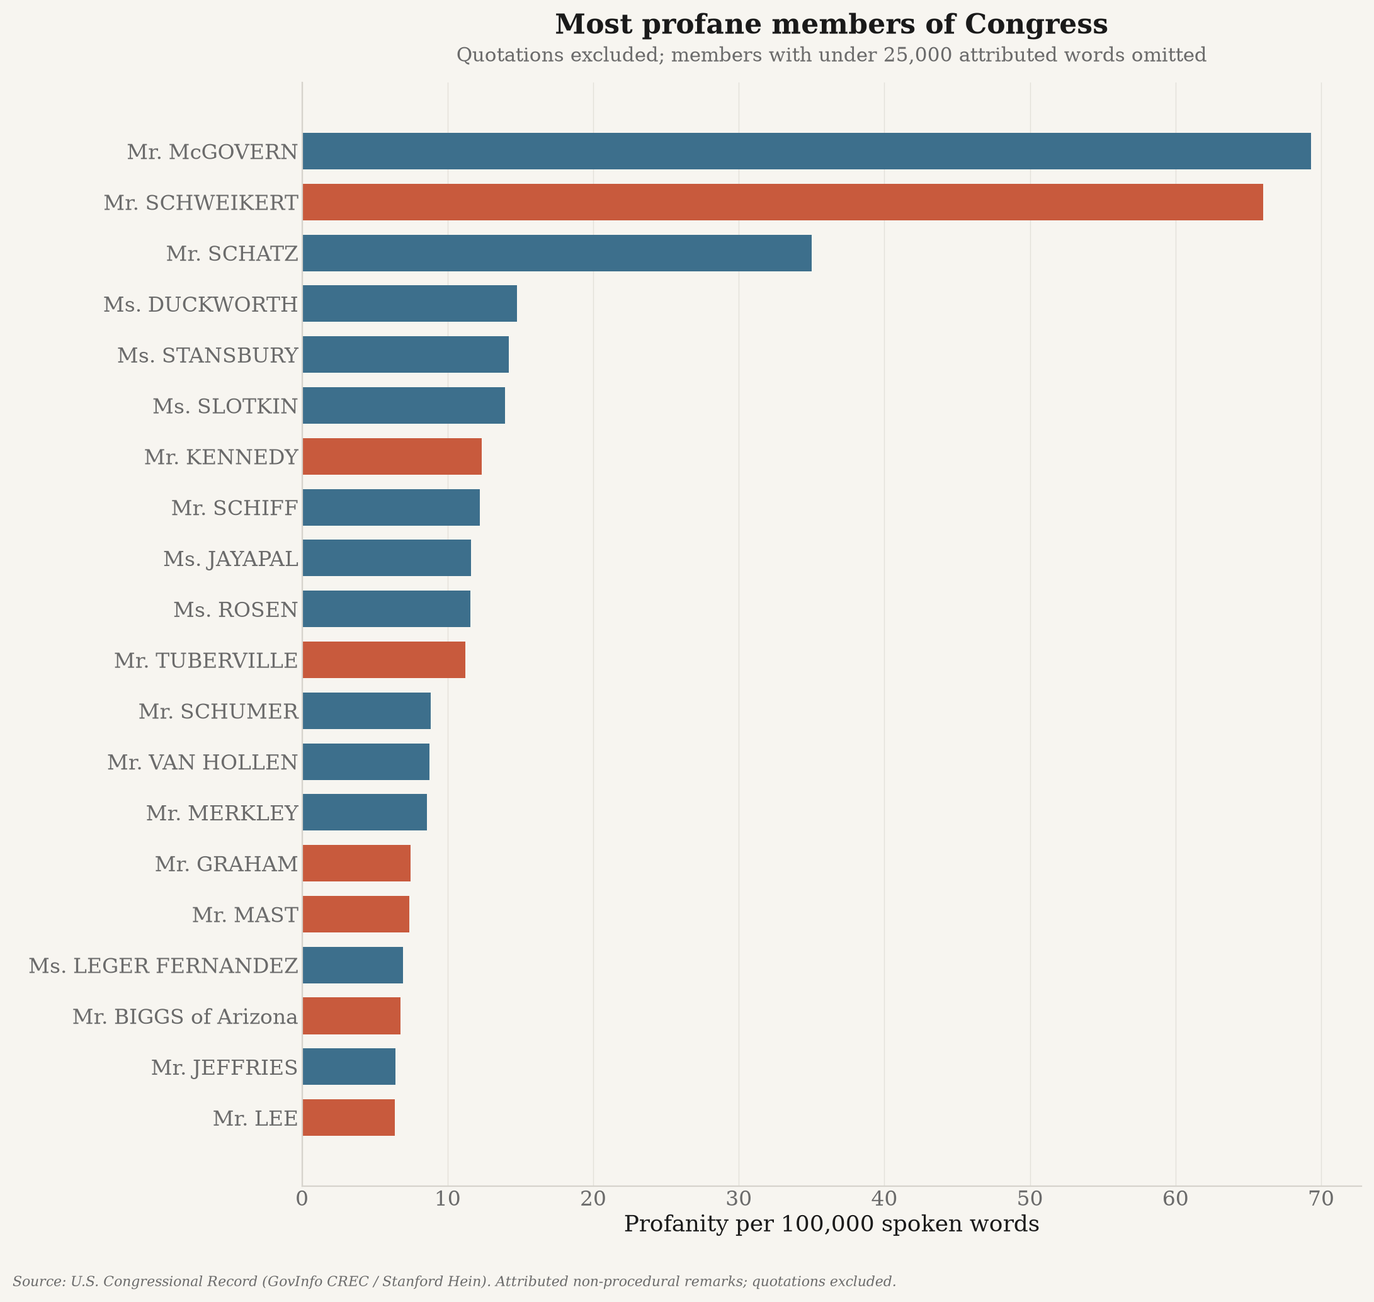
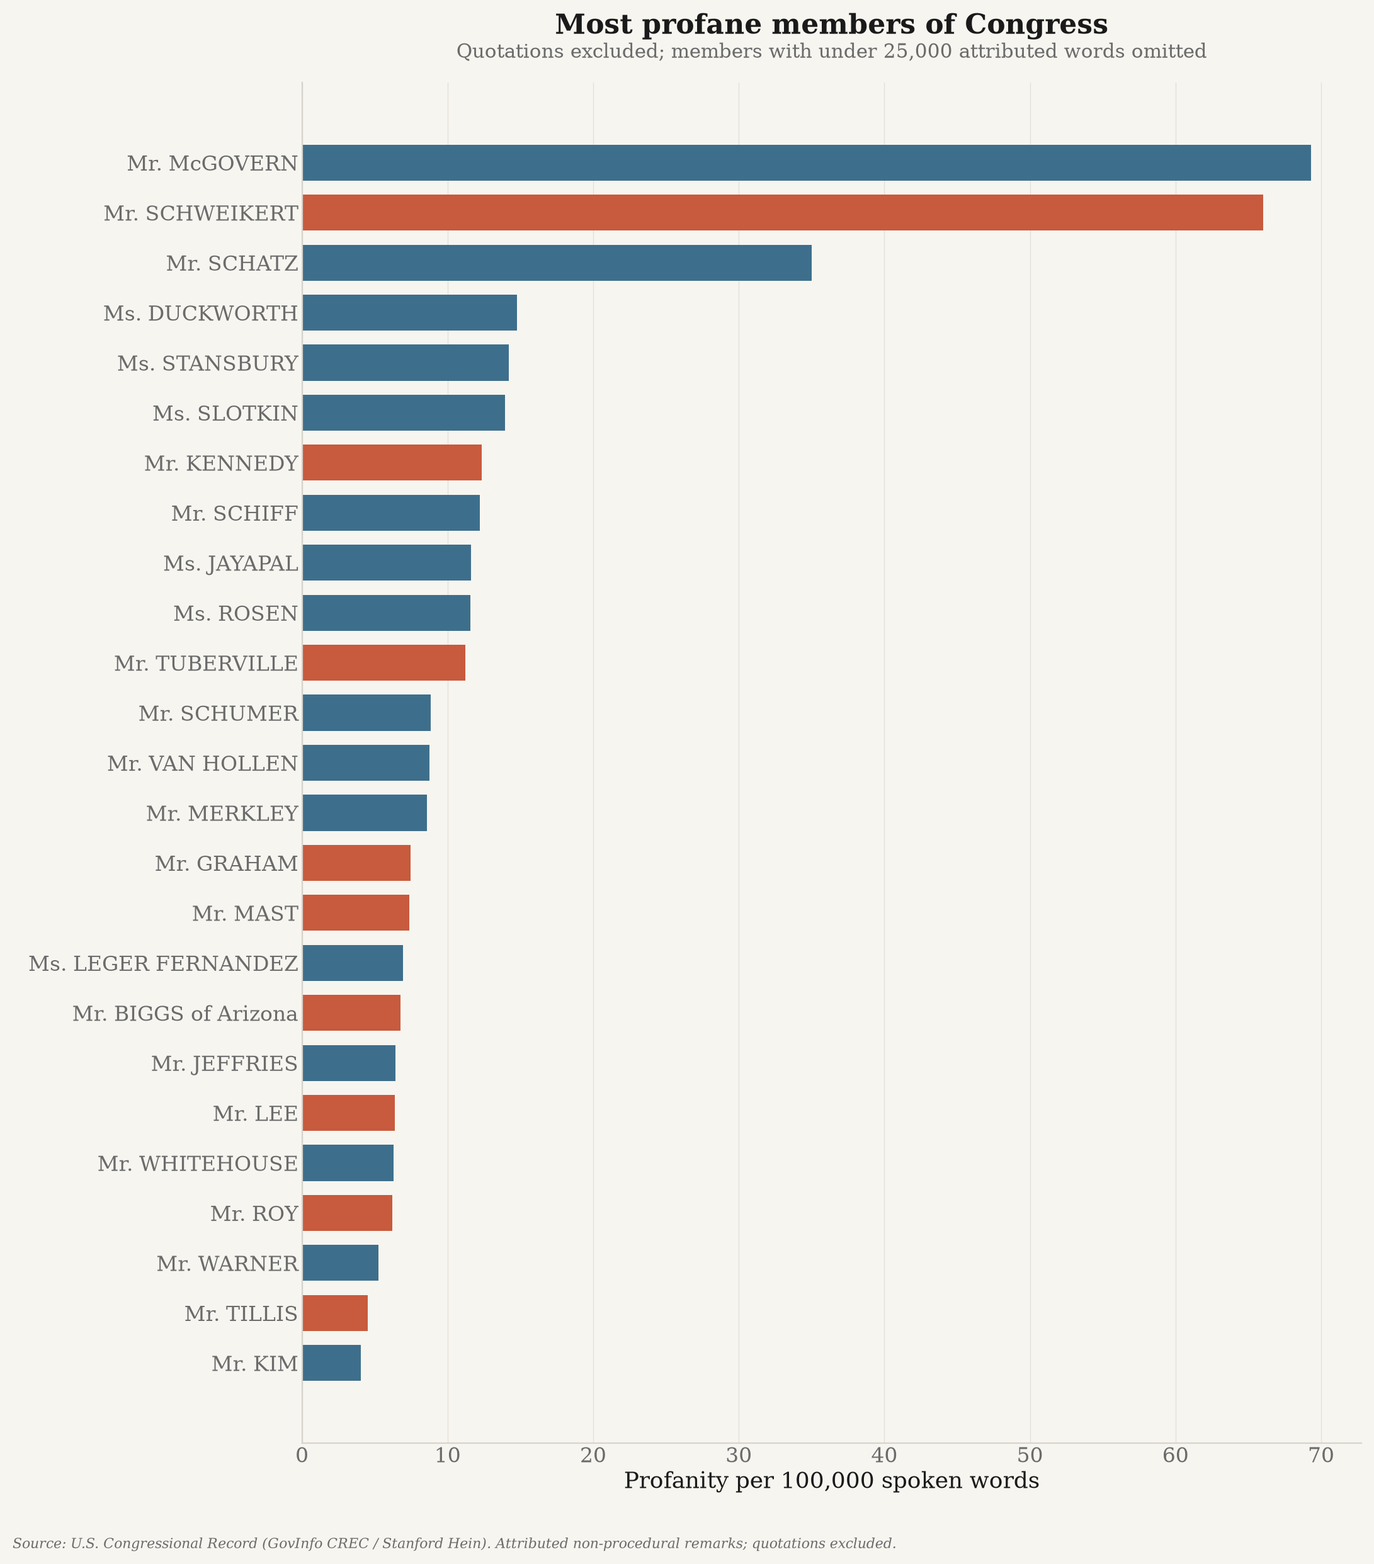
Fix two breaks that would have stopped the site updating unattended
Both were silent failures in the scheduled path, found by walking the workflow
step by step rather than trusting it.

1. The workflow runs `python -m pytest` to gate publishing, but pytest was in
   none of the requirements files, so the job would have failed on its very
   first scheduled run and the site would never have updated. Adds
   requirements-dev.txt and installs it in CI.

2. `build_site.py --congress` defaulted to None, meaning "all Congresses". CI
   invokes it with no arguments, so the scheduled build would have published an
   all-time leaderboard while a local build published the sitting Congress --
   the same data yielding two different rankings with nothing to flag it. The
   default is now `latest`, with `all` and an explicit number still available.
   Verified the CI default now reproduces the committed site exactly, with only
   the build timestamp differing.

Also ran the full CI sequence locally (tests -> update_speakers -> build_site):
data/site came back with no diff, confirming the partition write-only-on-change
behaviour holds in the real flow, not just in tests.

Adds 12 tests covering congress resolution, the CI default, HTML escaping of
member names, and consistency between the workflow and the files it references
(the dependency test fails without fix 1). 128 tests pass.

diff --git a/site/index.html b/site/index.html
@@ -31,7 +31,7 @@ measured from the Congressional Record and updated automatically.">
 <h1>Profanity in the Congressional Record</h1>
 <p class="sub">Who swears most on the floor of the U.S. Congress, measured from the
 official record &mdash; Congress 119. Rebuilt automatically; last updated
-2026-07-27T02:28:40+00:00.</p>
+2026-07-27T02:32:37+00:00.</p>
 
 <img src="figures/leaderboard.png" alt="Bar chart ranking members by profanity per 100,000 spoken words">
 
@@ -42,10 +42,10 @@ official record &mdash; Congress 119. Rebuilt automatically; last updated
   <th class="num">Per 100k words</th><th class="num">Hits</th>
   <th class="num">Quoted (excl.)</th><th class="num">Words</th>
 </tr></thead>
-<tbody><tr><td class='rank'>1</td><td>Mr. McGOVERN</td><td>D</td><td>MA</td><td>House</td><td class='num'>69.3</td><td class='num'>125</td><td class='num'><span class="muted">0</span></td><td class='num'>180,368</td></tr><tr><td class='rank'>2</td><td>Mr. SCHWEIKERT</td><td>R</td><td>AZ</td><td>House</td><td class='num'>66.0</td><td class='num'>129</td><td class='num'><span class="muted">0</span></td><td class='num'>195,331</td></tr><tr><td class='rank'>3</td><td>Mr. SCHATZ</td><td>D</td><td>HI</td><td>Senate</td><td class='num'>35.0</td><td class='num'>33</td><td class='num'><span class="muted">2</span></td><td class='num'>94,279</td></tr><tr><td class='rank'>4</td><td>Ms. DUCKWORTH</td><td>D</td><td>IL</td><td>Senate</td><td class='num'>14.8</td><td class='num'>5</td><td class='num'><span class="muted">0</span></td><td class='num'>33,866</td></tr><tr><td class='rank'>5</td><td>Ms. STANSBURY</td><td>D</td><td>NM</td><td>House</td><td class='num'>14.2</td><td class='num'>7</td><td class='num'><span class="muted">0</span></td><td class='num'>49,231</td></tr><tr><td class='rank'>6</td><td>Ms. SLOTKIN</td><td>D</td><td>MI</td><td>Senate</td><td class='num'>14.0</td><td class='num'>4</td><td class='num'><span class="muted">0</span></td><td class='num'>28,673</td></tr><tr><td class='rank'>7</td><td>Mr. KENNEDY</td><td>R</td><td>LA</td><td>Senate</td><td class='num'>12.4</td><td class='num'>14</td><td class='num'><span class="muted">0</span></td><td class='num'>113,329</td></tr><tr><td class='rank'>8</td><td>Mr. SCHIFF</td><td>D</td><td>CA</td><td>Senate</td><td class='num'>12.2</td><td class='num'>14</td><td class='num'><span class="muted">0</span></td><td class='num'>114,488</td></tr><tr><td class='rank'>9</td><td>Ms. JAYAPAL</td><td>D</td><td>WA</td><td>House</td><td class='num'>11.6</td><td class='num'>3</td><td class='num'><span class="muted">0</span></td><td class='num'>25,865</td></tr><tr><td class='rank'>10</td><td>Ms. ROSEN</td><td>D</td><td>NV</td><td>Senate</td><td class='num'>11.6</td><td class='num'>5</td><td class='num'><span class="muted">0</span></td><td class='num'>43,154</td></tr><tr><td class='rank'>11</td><td>Mr. TUBERVILLE</td><td>R</td><td>AL</td><td>Senate</td><td class='num'>11.2</td><td class='num'>7</td><td class='num'><span class="muted">0</span></td><td class='num'>62,428</td></tr><tr><td class='rank'>12</td><td>Mr. SCHUMER</td><td>D</td><td>NY</td><td>Senate</td><td class='num'>8.8</td><td class='num'>33</td><td class='num'><span class="muted">4</span></td><td class='num'>373,095</td></tr><tr><td class='rank'>13</td><td>Mr. VAN HOLLEN</td><td>D</td><td>MD</td><td>Senate</td><td class='num'>8.8</td><td class='num'>11</td><td class='num'><span class="muted">0</span></td><td class='num'>125,606</td></tr><tr><td class='rank'>14</td><td>Mr. MERKLEY</td><td>D</td><td>OR</td><td>Senate</td><td class='num'>8.6</td><td class='num'>25</td><td class='num'><span class="muted">2</span></td><td class='num'>290,560</td></tr><tr><td class='rank'>15</td><td>Mr. GRAHAM</td><td>R</td><td>SC</td><td>Senate</td><td class='num'>7.5</td><td class='num'>5</td><td class='num'><span class="muted">0</span></td><td class='num'>66,881</td></tr><tr><td class='rank'>16</td><td>Mr. MAST</td><td>R</td><td>FL</td><td>House</td><td class='num'>7.4</td><td class='num'>6</td><td class='num'><span class="muted">0</span></td><td class='num'>81,487</td></tr><tr><td class='rank'>17</td><td>Ms. LEGER FERNANDEZ</td><td>D</td><td>NM</td><td>House</td><td class='num'>6.9</td><td class='num'>2</td><td class='num'><span class="muted">0</span></td><td class='num'>28,845</td></tr><tr><td class='rank'>18</td><td>Mr. BIGGS of Arizona</td><td>R</td><td>AZ</td><td>House</td><td class='num'>6.7</td><td class='num'>2</td><td class='num'><span class="muted">0</span></td><td class='num'>29,646</td></tr><tr><td class='rank'>19</td><td>Mr. JEFFRIES</td><td>D</td><td>NY</td><td>House</td><td class='num'>6.4</td><td class='num'>3</td><td class='num'><span class="muted">0</span></td><td class='num'>46,620</td></tr><tr><td class='rank'>20</td><td>Mr. LEE</td><td>R</td><td>UT</td><td>Senate</td><td class='num'>6.4</td><td class='num'>9</td><td class='num'><span class="muted">0</span></td><td class='num'>141,377</td></tr></tbody>
+<tbody><tr><td class='rank'>1</td><td>Mr. McGOVERN</td><td>D</td><td>MA</td><td>House</td><td class='num'>69.3</td><td class='num'>125</td><td class='num'><span class="muted">0</span></td><td class='num'>180,368</td></tr><tr><td class='rank'>2</td><td>Mr. SCHWEIKERT</td><td>R</td><td>AZ</td><td>House</td><td class='num'>66.0</td><td class='num'>129</td><td class='num'><span class="muted">0</span></td><td class='num'>195,331</td></tr><tr><td class='rank'>3</td><td>Mr. SCHATZ</td><td>D</td><td>HI</td><td>Senate</td><td class='num'>35.0</td><td class='num'>33</td><td class='num'><span class="muted">2</span></td><td class='num'>94,279</td></tr><tr><td class='rank'>4</td><td>Ms. DUCKWORTH</td><td>D</td><td>IL</td><td>Senate</td><td class='num'>14.8</td><td class='num'>5</td><td class='num'><span class="muted">0</span></td><td class='num'>33,866</td></tr><tr><td class='rank'>5</td><td>Ms. STANSBURY</td><td>D</td><td>NM</td><td>House</td><td class='num'>14.2</td><td class='num'>7</td><td class='num'><span class="muted">0</span></td><td class='num'>49,231</td></tr><tr><td class='rank'>6</td><td>Ms. SLOTKIN</td><td>D</td><td>MI</td><td>Senate</td><td class='num'>14.0</td><td class='num'>4</td><td class='num'><span class="muted">0</span></td><td class='num'>28,673</td></tr><tr><td class='rank'>7</td><td>Mr. KENNEDY</td><td>R</td><td>LA</td><td>Senate</td><td class='num'>12.4</td><td class='num'>14</td><td class='num'><span class="muted">0</span></td><td class='num'>113,329</td></tr><tr><td class='rank'>8</td><td>Mr. SCHIFF</td><td>D</td><td>CA</td><td>Senate</td><td class='num'>12.2</td><td class='num'>14</td><td class='num'><span class="muted">0</span></td><td class='num'>114,488</td></tr><tr><td class='rank'>9</td><td>Ms. JAYAPAL</td><td>D</td><td>WA</td><td>House</td><td class='num'>11.6</td><td class='num'>3</td><td class='num'><span class="muted">0</span></td><td class='num'>25,865</td></tr><tr><td class='rank'>10</td><td>Ms. ROSEN</td><td>D</td><td>NV</td><td>Senate</td><td class='num'>11.6</td><td class='num'>5</td><td class='num'><span class="muted">0</span></td><td class='num'>43,154</td></tr><tr><td class='rank'>11</td><td>Mr. TUBERVILLE</td><td>R</td><td>AL</td><td>Senate</td><td class='num'>11.2</td><td class='num'>7</td><td class='num'><span class="muted">0</span></td><td class='num'>62,428</td></tr><tr><td class='rank'>12</td><td>Mr. SCHUMER</td><td>D</td><td>NY</td><td>Senate</td><td class='num'>8.8</td><td class='num'>33</td><td class='num'><span class="muted">4</span></td><td class='num'>373,095</td></tr><tr><td class='rank'>13</td><td>Mr. VAN HOLLEN</td><td>D</td><td>MD</td><td>Senate</td><td class='num'>8.8</td><td class='num'>11</td><td class='num'><span class="muted">0</span></td><td class='num'>125,606</td></tr><tr><td class='rank'>14</td><td>Mr. MERKLEY</td><td>D</td><td>OR</td><td>Senate</td><td class='num'>8.6</td><td class='num'>25</td><td class='num'><span class="muted">2</span></td><td class='num'>290,560</td></tr><tr><td class='rank'>15</td><td>Mr. GRAHAM</td><td>R</td><td>SC</td><td>Senate</td><td class='num'>7.5</td><td class='num'>5</td><td class='num'><span class="muted">0</span></td><td class='num'>66,881</td></tr><tr><td class='rank'>16</td><td>Mr. MAST</td><td>R</td><td>FL</td><td>House</td><td class='num'>7.4</td><td class='num'>6</td><td class='num'><span class="muted">0</span></td><td class='num'>81,487</td></tr><tr><td class='rank'>17</td><td>Ms. LEGER FERNANDEZ</td><td>D</td><td>NM</td><td>House</td><td class='num'>6.9</td><td class='num'>2</td><td class='num'><span class="muted">0</span></td><td class='num'>28,845</td></tr><tr><td class='rank'>18</td><td>Mr. BIGGS of Arizona</td><td>R</td><td>AZ</td><td>House</td><td class='num'>6.7</td><td class='num'>2</td><td class='num'><span class="muted">0</span></td><td class='num'>29,646</td></tr><tr><td class='rank'>19</td><td>Mr. JEFFRIES</td><td>D</td><td>NY</td><td>House</td><td class='num'>6.4</td><td class='num'>3</td><td class='num'><span class="muted">0</span></td><td class='num'>46,620</td></tr><tr><td class='rank'>20</td><td>Mr. LEE</td><td>R</td><td>UT</td><td>Senate</td><td class='num'>6.4</td><td class='num'>9</td><td class='num'><span class="muted">0</span></td><td class='num'>141,377</td></tr><tr><td class='rank'>21</td><td>Mr. WHITEHOUSE</td><td>D</td><td>RI</td><td>Senate</td><td class='num'>6.3</td><td class='num'>12</td><td class='num'><span class="muted">5</span></td><td class='num'>190,705</td></tr><tr><td class='rank'>22</td><td>Mr. ROY</td><td>R</td><td>TX</td><td>House</td><td class='num'>6.2</td><td class='num'>7</td><td class='num'><span class="muted">2</span></td><td class='num'>113,053</td></tr><tr><td class='rank'>23</td><td>Mr. WARNER</td><td>D</td><td>VA</td><td>Senate</td><td class='num'>5.3</td><td class='num'>2</td><td class='num'><span class="muted">0</span></td><td class='num'>37,981</td></tr><tr><td class='rank'>24</td><td>Mr. TILLIS</td><td>R</td><td>NC</td><td>Senate</td><td class='num'>4.5</td><td class='num'>2</td><td class='num'><span class="muted">0</span></td><td class='num'>44,394</td></tr><tr><td class='rank'>25</td><td>Mr. KIM</td><td>D</td><td>NJ</td><td>Senate</td><td class='num'>4.0</td><td class='num'>2</td><td class='num'><span class="muted">0</span></td><td class='num'>49,443</td></tr></tbody>
 </table>
 <p class="muted">Ranked by rate, not raw count, so prolific speakers are not penalised.
-Minimum 25,000 attributed words. 20 of
+Minimum 25,000 attributed words. 25 of
 544 members met the threshold.</p>
 
 <h2>Over time</h2>

diff --git a/tests/test_build_site.py b/tests/test_build_site.py
@@ -1,0 +1,160 @@
+"""Tests for the static site build, focused on what would break it in CI.
+
+The site is published by a scheduled job, so the failure modes that matter are
+the silent ones: CI producing a different ranking than a local build, or the
+workflow referencing dependencies and files that do not exist.
+"""
+
+from __future__ import annotations
+
+import importlib.util
+import json
+import sys
+from pathlib import Path
+
+import pandas as pd
+import pytest
+
+ROOT = Path(__file__).resolve().parent.parent
+sys.path.insert(0, str(ROOT))
+
+from analysis.speakers import save_daily  # noqa: E402
+
+
+def _load_build_site():
+    spec = importlib.util.spec_from_file_location(
+        "build_site_under_test", ROOT / "scripts" / "build_site.py"
+    )
+    module = importlib.util.module_from_spec(spec)
+    spec.loader.exec_module(module)
+    return module
+
+
+def _daily(rows):
+    return pd.DataFrame(rows, columns=[
+        "bioguide", "date", "chamber", "speaker_name", "party", "state", "congress",
+        "turns", "words", "profanity_hits", "profanity_quoted_hits",
+        "hostility_hits", "misconduct_hits",
+    ])
+
+
+@pytest.fixture()
+def store(tmp_path: Path):
+    daily = _daily([
+        ["OLD", "2023-02-01", "house", "Mr. OLD", "D", "CA", 118, 20, 60_000, 60, 1, 0, 0],
+        ["NEW", "2025-02-01", "house", "Mr. NEW", "R", "TX", 119, 20, 60_000, 6, 0, 0, 0],
+        ["NEW2", "2025-03-01", "senate", "Ms. NEW2", "D", "NY", 119, 20, 40_000, 8, 0, 0, 0],
+    ])
+    path = tmp_path / "speaker_daily"
+    save_daily(daily, path)
+    return path, daily
+
+
+# ---------------------------------------------------------------- congress selection
+
+
+def test_default_congress_is_the_latest_present(store):
+    _, daily = store
+    module = _load_build_site()
+    assert module.resolve_congress("latest", daily) == 119
+
+
+def test_congress_all_spans_every_congress(store):
+    _, daily = store
+    module = _load_build_site()
+    assert module.resolve_congress("all", daily) is None
+
+
+def test_explicit_congress_is_honoured(store):
+    _, daily = store
+    module = _load_build_site()
+    assert module.resolve_congress("118", daily) == 118
+    assert module.resolve_congress(119, daily) == 119
+
+
+def test_invalid_congress_fails_loudly(store):
+    _, daily = store
+    module = _load_build_site()
+    with pytest.raises(SystemExit):
+        module.resolve_congress("last-year", daily)
+
+
+def test_ci_default_ranks_the_sitting_congress_only(store, tmp_path):
+    # A default of "all" would make the scheduled build publish an all-time board,
+    # silently differing from what a local build of the same data produces.
+    path, _ = store
+    module = _load_build_site()
+    out = tmp_path / "site"
+    assert module.main(["--daily", str(path), "--out", str(out), "--min-words", "1000"]) == 0
+    meta = json.loads((out / "data" / "meta.json").read_text())
+    assert meta["congress"] == 119
+    board = json.loads((out / "data" / "leaderboard.json").read_text())
+    assert {row["speaker_name"] for row in board} == {"Mr. NEW", "Ms. NEW2"}
+
+
+# ------------------------------------------------------------------------- output
+
+
+def test_build_writes_html_json_and_figures(store, tmp_path):
+    path, _ = store
+    module = _load_build_site()
+    out = tmp_path / "site"
+    assert module.main(["--daily", str(path), "--out", str(out), "--min-words", "1000"]) == 0
+    for rel in ("index.html", "data/leaderboard.json", "data/timeseries.json",
+                "data/meta.json", "figures/leaderboard.png", "figures/trend.png"):
+        assert (out / rel).exists(), rel
+
+
+def test_html_escapes_member_names(tmp_path):
+    module = _load_build_site()
+    daily = _daily([
+        ["X", "2025-02-01", "house", "<script>alert(1)</script>", "D", "CA", 119,
+         20, 60_000, 6, 0, 0, 0],
+    ])
+    path = tmp_path / "speaker_daily"
+    save_daily(daily, path)
+    out = tmp_path / "site"
+    assert module.main(["--daily", str(path), "--out", str(out), "--min-words", "1000"]) == 0
+    html = (out / "index.html").read_text()
+    assert "<script>alert(1)</script>" not in html
+    assert "&lt;script&gt;" in html
+
+
+def test_missing_table_is_reported_not_crashed(tmp_path):
+    module = _load_build_site()
+    assert module.main(["--daily", str(tmp_path / "nope"), "--out", str(tmp_path / "s")]) == 1
+
+
+def test_quoted_hits_are_shown_so_the_exclusion_is_auditable(store, tmp_path):
+    path, _ = store
+    module = _load_build_site()
+    out = tmp_path / "site"
+    module.main(["--daily", str(path), "--out", str(out), "--congress", "118",
+                 "--min-words", "1000"])
+    board = json.loads((out / "data" / "leaderboard.json").read_text())
+    assert board[0]["profanity_quoted_hits"] == 1
+    assert "Quoted" in (out / "index.html").read_text()
+
+
+# ----------------------------------------------------------------------- workflow
+
+
+def test_workflow_installs_every_requirements_file_it_needs():
+    # The scheduled job runs pytest to gate publishing; if pytest is not installed
+    # the workflow fails on every run and the site silently stops updating.
+    workflow = (ROOT / ".github" / "workflows" / "update-site.yml").read_text()
+    assert "requirements-dev.txt" in workflow
+    assert "pytest" in (ROOT / "requirements-dev.txt").read_text()
+
+
+def test_workflow_references_scripts_that_exist():
+    workflow = (ROOT / ".github" / "workflows" / "update-site.yml").read_text()
+    for script in ("scripts/update_speakers.py", "scripts/build_site.py"):
+        assert script in workflow
+        assert (ROOT / script).exists()
+
+
+def test_committed_site_state_is_not_gitignored():
+    # CI can only update incrementally if the state file is actually committed.
+    ignore = (ROOT / ".gitignore").read_text()
+    assert "!data/site/**/*.parquet" in ignore

diff --git a/scripts/build_site.py b/scripts/build_site.py
@@ -67,7 +67,12 @@ def parse_args(argv: Optional[List[str]] = None) -> argparse.Namespace:
     )
     p.add_argument("--daily", type=Path, default=DAILY_PATH, help="Speaker daily table.")
     p.add_argument("--out", type=Path, default=SITE_DIR, help="Site output directory.")
-    p.add_argument("--congress", type=int, default=None, help="Restrict to one Congress.")
+    p.add_argument(
+        "--congress",
+        default="latest",
+        help="Congress to rank: a number, 'latest' (default), or 'all'. The default "
+             "keeps the scheduled build showing the sitting Congress.",
+    )
     p.add_argument("--top", type=int, default=25, help="Leaderboard length.")
     p.add_argument(
         "--min-words",
@@ -214,18 +219,39 @@ to {html.escape(meta['last_date'])}.</footer>
 """
 
 
+def resolve_congress(value, daily: pd.DataFrame) -> Optional[int]:
+    """Resolve ``--congress`` to a Congress number, or None meaning all of them.
+
+    Defaulting to the newest Congress present (rather than to "all") keeps the
+    scheduled build showing the sitting Congress, which is what the page is about,
+    and stops CI publishing a different ranking than a local build produces.
+    """
+    text = str(value).strip().lower()
+    if text == "all":
+        return None
+    if text == "latest":
+        return int(daily["congress"].max())
+    try:
+        return int(text)
+    except ValueError:
+        raise SystemExit(
+            f"error: --congress must be a number, 'latest' or 'all' (got {value!r})"
+        )
+
+
 def main(argv: Optional[List[str]] = None) -> int:
     args = parse_args(argv)
     logging.basicConfig(level=logging.INFO, format="%(asctime)s %(levelname)s %(name)s: %(message)s")
 
     daily = load_daily(args.daily)
     if daily is None or daily.empty:
-        LOG.error("no speaker table at %s; run scripts/update.py first", args.daily)
+        LOG.error("no speaker table at %s; run scripts/update_speakers.py first", args.daily)
         return 1
 
-    scoped = daily if args.congress is None else daily[daily["congress"] == args.congress]
+    congress = resolve_congress(args.congress, daily)
+    scoped = daily if congress is None else daily[daily["congress"] == congress]
     if scoped.empty:
-        LOG.error("no rows for congress %s", args.congress)
+        LOG.error("no rows for congress %s", congress)
         return 1
 
     board = leaderboard(scoped, min_words=args.min_words, top=args.top)
@@ -252,7 +278,7 @@ def main(argv: Optional[List[str]] = None) -> int:
 
     meta = {
         "generated_utc": dt.datetime.now(dt.timezone.utc).isoformat(timespec="seconds"),
-        "congress": args.congress,
+        "congress": congress,
         "min_words": args.min_words,
         "top": args.top,
         "members": int(scoped["bioguide"].nunique()),

diff --git a/README.md b/README.md
@@ -371,6 +371,10 @@ python scripts/update_speakers.py    # extend the table with newly published day
 python scripts/build_site.py         # render site/ from the table
 ```
 
+`build_site.py` ranks the **sitting Congress** by default (`--congress latest`); pass a number
+for a specific one or `--congress all` for an all-time board. The default is deliberate: it keeps
+the scheduled build showing the current Congress and producing the same output as a local run.
+
 `.github/workflows/update-site.yml` runs both daily at 07:20 UTC, commits the refreshed table and
 site, and publishes to GitHub Pages. To enable it:
 
@@ -432,13 +436,18 @@ The parsed hein corpus is from Gentzkow, Shapiro & Taddy, *Congressional Record 
 
 ## Tests
 
-Offline unit tests (no network) cover MODS parsing, the downloader hardening, and the
-analysis scorers/ingesters:
+Offline unit tests (no network) cover MODS parsing, the downloader hardening, the analysis
+scorers/ingesters, incremental aggregation, scorer reproducibility, the speaker leaderboard and
+the site build:
 
 ```bash
-.venv/bin/python -m pytest tests/ -q   # if pytest installed
-# or run each file directly:
-.venv/bin/python tests/test_parsing.py
-.venv/bin/python tests/test_hardening.py
-.venv/bin/python tests/test_analysis.py
+pip install -r requirements-dev.txt     # pytest
+python -m pytest tests/ -q
+# or run individual files directly:
+python tests/test_parsing.py
+python tests/test_hardening.py
+python tests/test_analysis.py
 ```
+
+The scheduled site workflow runs this same suite before it publishes, so a regression fails the
+job rather than quietly shipping wrong numbers.
